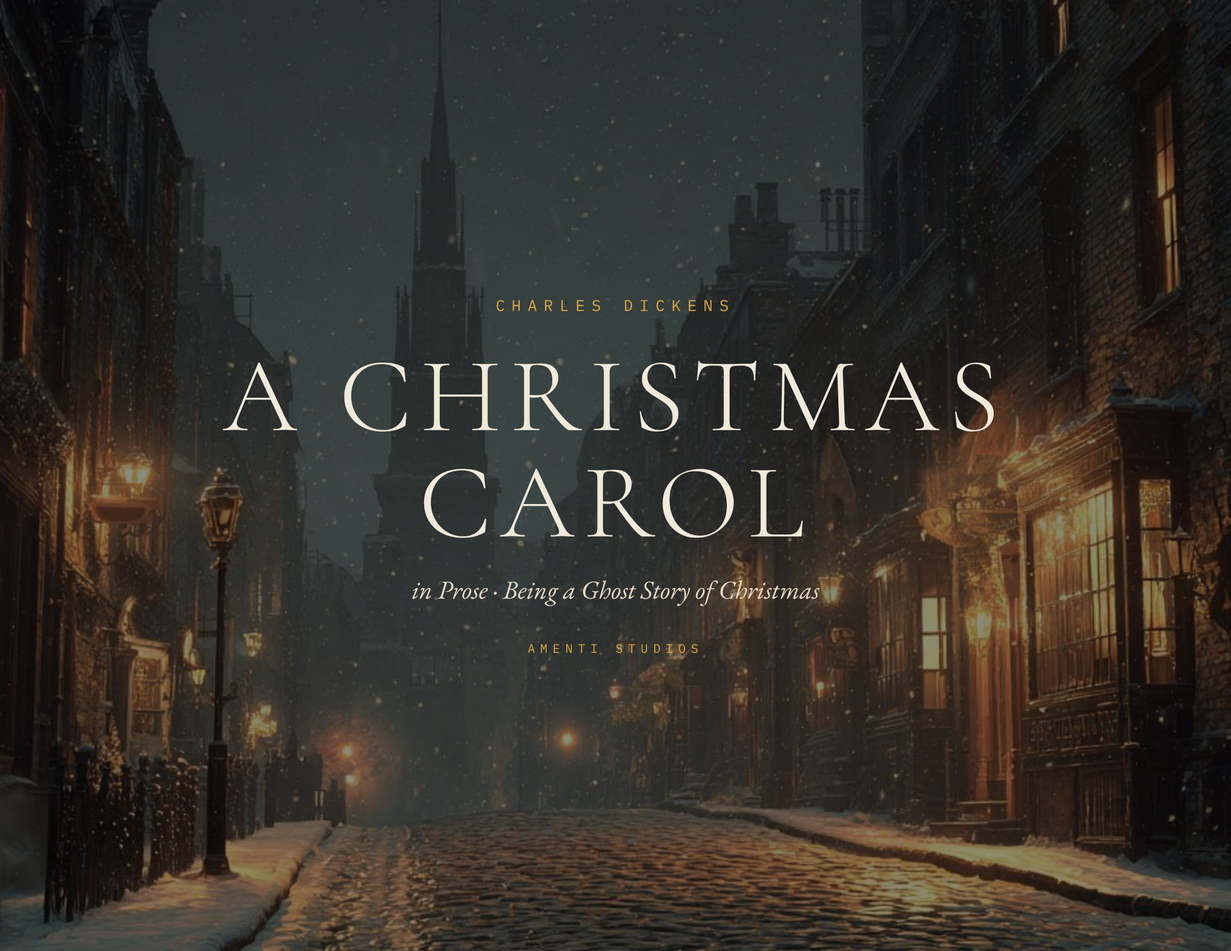
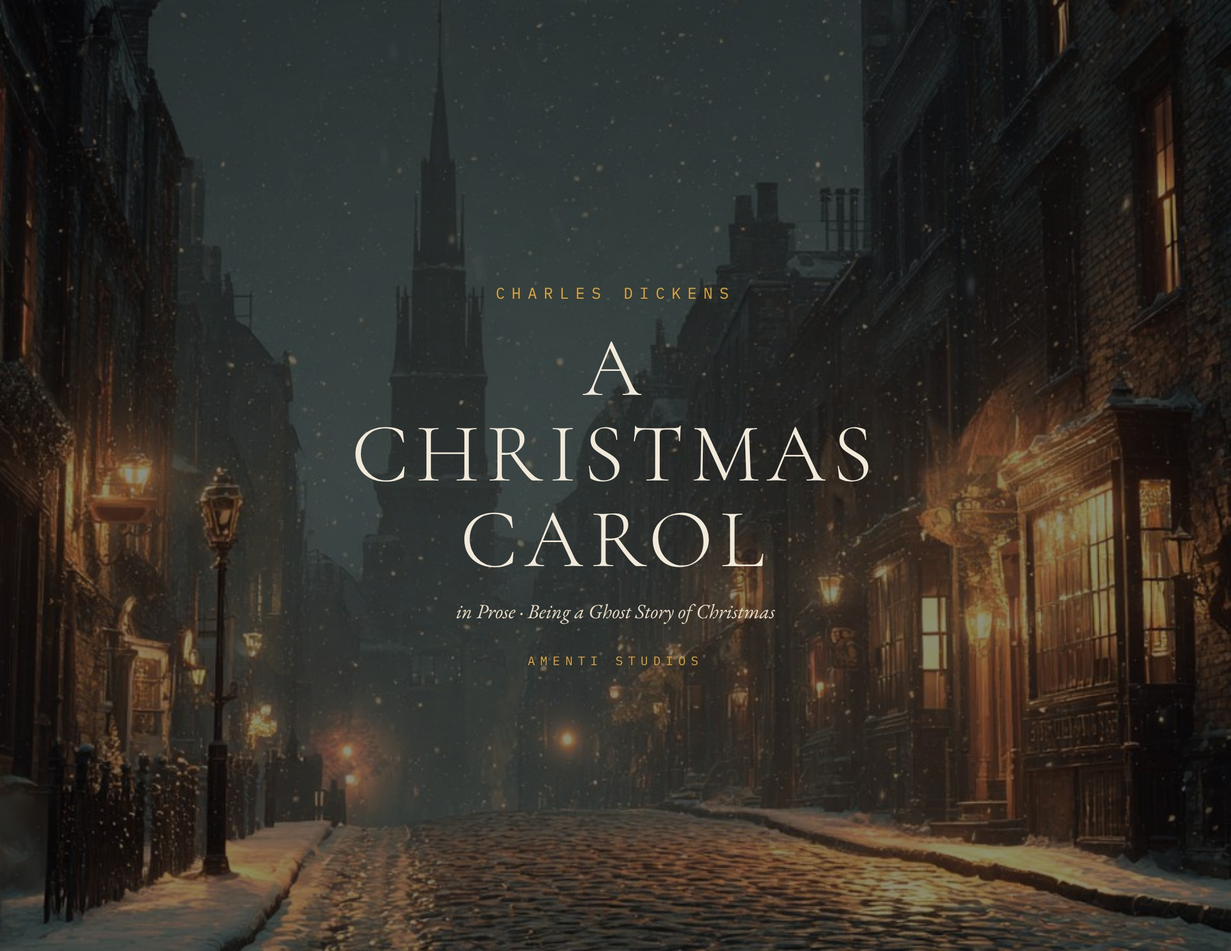
Carol title page: A on its own line, title sized between the street lamps
Claude-Session: https://claude.ai/code/session_013VwDP7mPLrP4eYudhxc4u4

diff --git a/a-christmas-carol/print/assets.js b/a-christmas-carol/print/assets.js
@@ -9,7 +9,7 @@ const holly=(w)=>`<svg width="${w}" height="${w*0.5}" viewBox="0 0 120 60"><g fi
 const jobs=[
  ['title-flat.jpg',2200,1700,`body{background:#0d1222}.bg{position:absolute;inset:0;background:url(file:///home/claude/as/a-christmas-carol/carol-hero.jpg) center/cover;filter:brightness(.55)}
  .t{position:absolute;inset:0;display:flex;flex-direction:column;align-items:center;justify-content:center;color:#f1e9da;text-align:center}`,
- `<div class=bg></div><div class=t><div class=k>Charles Dickens</div><div style="font:300 190px/1 C;letter-spacing:.08em;margin:50px 0 10px">A CHRISTMAS<br>CAROL</div><div style="font:italic 46px G;color:#e8dcc6;margin:20px 0 60px">in Prose · Being a Ghost Story of Christmas</div><div class=k style="font-size:22px">Amenti Studios</div></div>`],
+ `<div class=bg></div><div class=t><div class=k>Charles Dickens</div><div style="font:300 150px/1.02 C;letter-spacing:.08em;margin:40px 0 10px">A<br>CHRISTMAS<br>CAROL</div><div style="font:italic 36px G;color:#e8dcc6;margin:18px 0 50px">in Prose · Being a Ghost Story of Christmas</div><div class=k style="font-size:22px">Amenti Studios</div></div>`],
  ['orn-flat.jpg',3600,360,`body{background:#fff;display:flex;align-items:center;justify-content:center}`,`<div style="height:4px;width:1500px;background:#a8823f"></div><div style="margin:0 40px">${holly(300)}</div><div style="height:4px;width:1500px;background:#a8823f"></div>`],
 ];
 const st=['One','Two','Three','Four','Five'];const D=JSON.parse(fs.readFileSync('data.json'));
